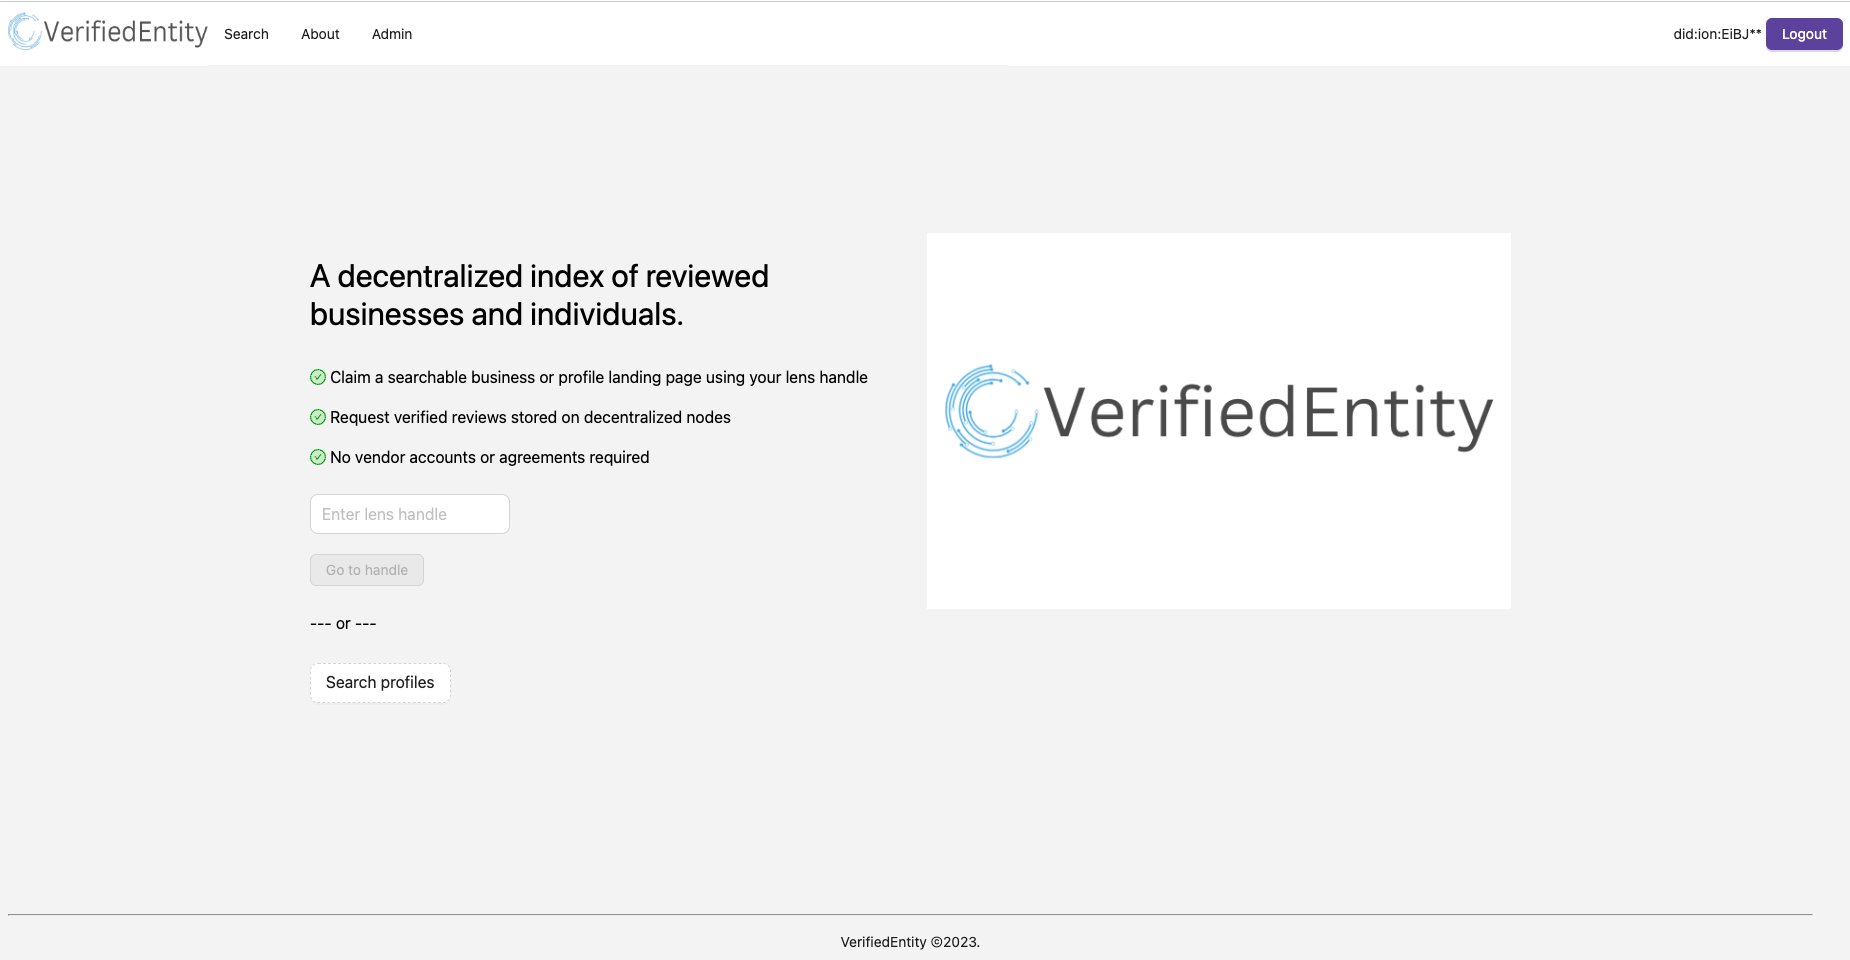
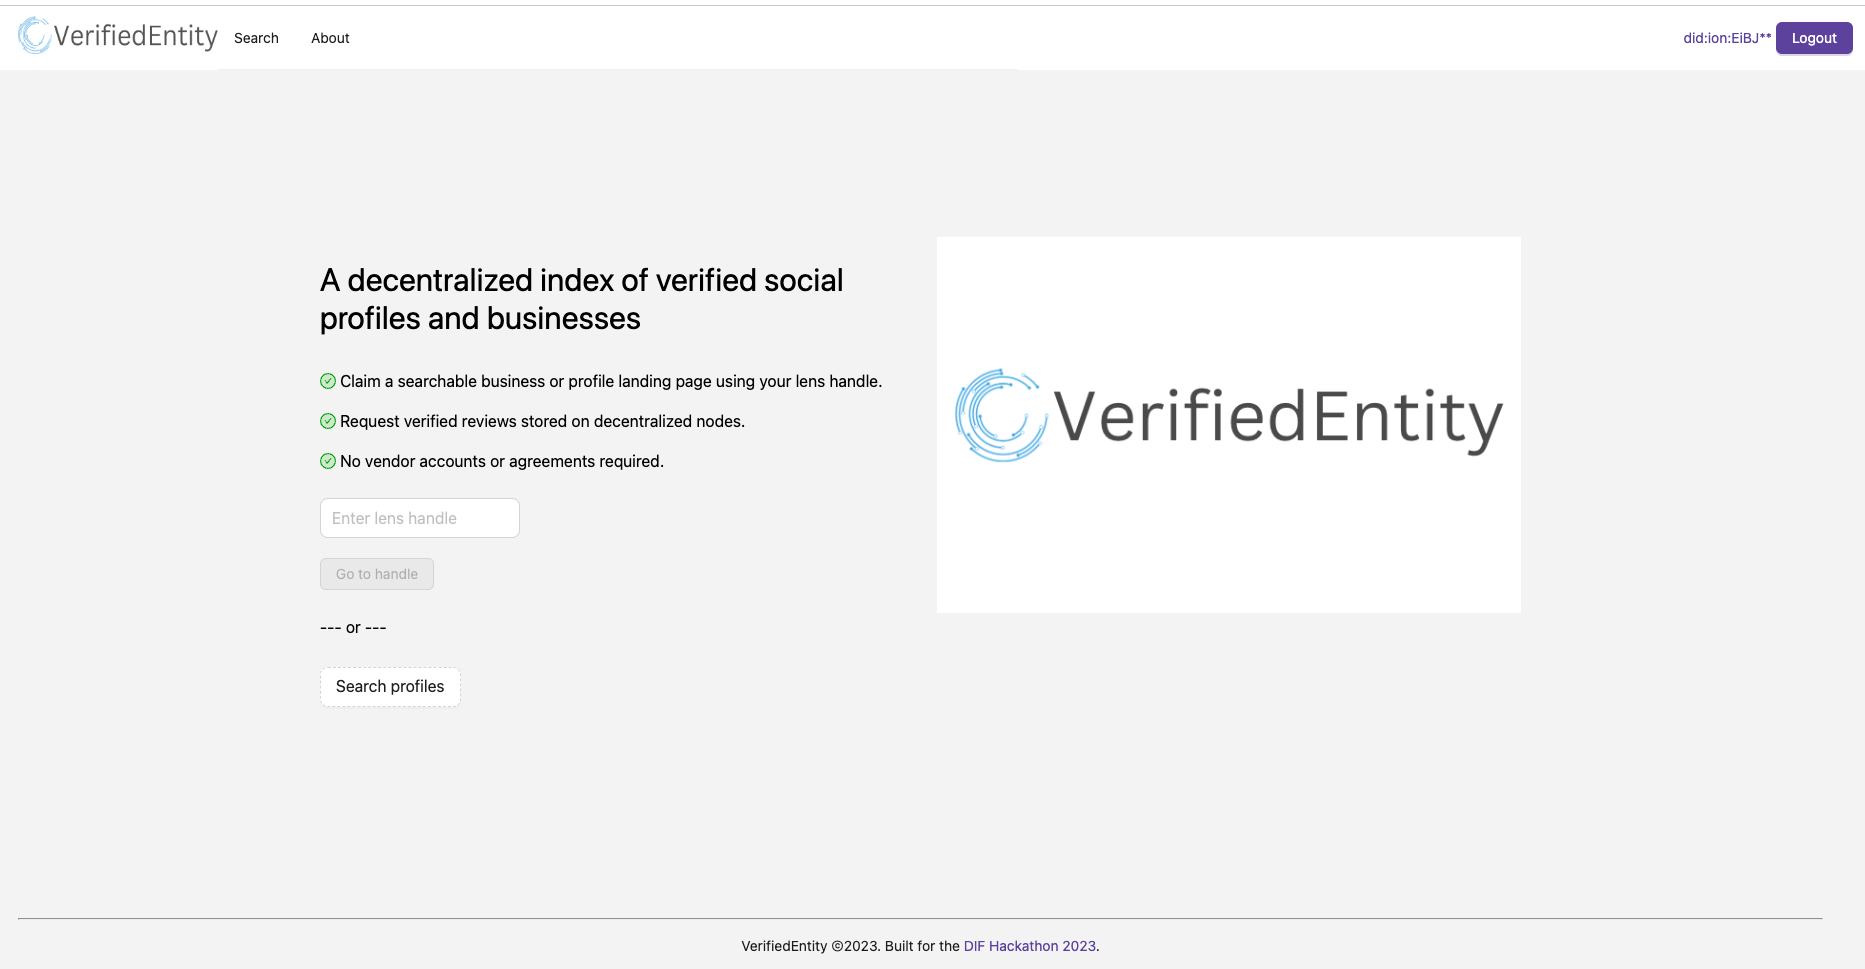
update images and readme

diff --git a/app/page.js b/app/page.js
@@ -1,6 +1,6 @@
-'use client'
+'use client';
 
-import React, { useState, } from 'react'
+import React, { useState } from 'react';
 import { Button, Spin, Row, Col, Input, Divider } from 'antd';
 import { APP_DESC, APP_NAME } from './constants';
 import { CheckCircleTwoTone } from '@ant-design/icons';
@@ -10,81 +10,91 @@ import { useRouter } from 'next/navigation';
 
 // TODO: change
 const CHECKLIST_ITEMS = [
-  "Claim a searchable business or profile landing page using your lens handle",
-  "Request verified reviews stored on decentralized nodes",
-  "No vendor accounts or agreements required",
+    'Claim a searchable business or profile landing page using your lens handle',
+    'Request verified reviews stored on decentralized nodes',
+    'No vendor accounts or agreements required',
 ];
 
 // const HERO_IMAGE = 'https://assets-v2.lottiefiles.com/a/b2e71c48-1173-11ee-af24-e38df89b1a8a/esieSHm0ao.gif'
 
-
 const Home = () => {
-  const [loading, setLoading] = useState(false)
-  const [handle, setHandle] = useState()
-  // next router
-  const router = useRouter()
-  const [error, setError] = useState()
+    const [loading, setLoading] = useState(false);
+    const [handle, setHandle] = useState();
+    // next router
+    const router = useRouter();
+    const [error, setError] = useState();
 
-  return <div className='home-section'>
-    <Row gutter={{
-      xs: 8,
-      sm: 16,
-      md: 24,
-      lg: 32,
-    }}>
-      <Col span={12}>
-        <div className='prompt-section'>
-          {APP_DESC}
+    return (
+        <div className="home-section">
+            <Row
+                gutter={{
+                    xs: 8,
+                    sm: 16,
+                    md: 24,
+                    lg: 32,
+                }}
+            >
+                <Col span={12}>
+                    <div className="prompt-section">{APP_DESC}</div>
+                    {CHECKLIST_ITEMS.map((item, i) => {
+                        return (
+                            <p key={i}>
+                                <CheckCircleTwoTone twoToneColor="#00aa00" />
+                                &nbsp;
+                                {item}.
+                            </p>
+                        );
+                    })}
+                    <div></div>
+                    <div>
+                        <br />
+                        <Input
+                            value={handle}
+                            size="large"
+                            className="standard-padding"
+                            onChange={(e) => setHandle(e.target.value)}
+                            placeholder="Enter lens handle"
+                            style={{ width: 200 }}
+                        />
+                        <br />
+
+                        <Button
+                            disabled={!handle}
+                            className="standard-btn"
+                            type="primary"
+                            onClick={() => router.push('/profile/' + handle)}
+                        >
+                            Go to handle
+                        </Button>
+                        <br />
+                        <br />
+                        <p>--- or ---</p>
+
+                        <Button
+                            className="standard-btn"
+                            size="large"
+                            type="dashed"
+                            onClick={() => router.push('/search')}
+                        >
+                            Search profiles
+                        </Button>
+                    </div>
+                </Col>
+                <Col span={12}>
+                    <br />
+                    <Image
+                        width={0}
+                        height={0}
+                        sizes="100vw"
+                        style={{ width: '100%', height: 'auto' }}
+                        className="hero-image"
+                        src={'/logo_3_2.png'}
+                        alt={APP_NAME}
+                    />
+                </Col>
+            </Row>
         </div>
-        {CHECKLIST_ITEMS.map((item, i) => {
-          return (
-            <p key={i}>
-              <CheckCircleTwoTone twoToneColor="#00aa00" />
-              &nbsp;
-              {item}
-            </p>
-          );
-        })}
-        <div>
-        </div>
-        <div>
-          <br />
-          <Input
-            value={handle}
-            size='large'
-            className='standard-padding'
-            onChange={(e) => setHandle(e.target.value)}
-            placeholder="Enter lens handle"
-            style={{ width: 200 }}
-          /><br />
+    );
+};
 
-          <Button disabled={!handle} className='standard-btn' type="primary" onClick={() => router.push('/profile/' + handle)}>
-            Go to handle
-          </Button>
-          <br />
-          <br />
-          <p>--- or ---</p>
-
-          <Button className='standard-btn' size="large" type="dashed" onClick={() => router.push('/search')}>
-            Search profiles
-          </Button>
-        </div>
-      </Col>
-      <Col span={12}>
-        <br />
-        <Image
-          width={0}
-          height={0}
-          sizes="100vw"
-          style={{ width: '100%', height: 'auto' }}
-          className='hero-image' src={'/logo_3_2.png'}
-          alt={APP_NAME}
-        />
-      </Col>
-    </Row>
-
-  </div>
-
-}
-
-export default Home
+export default Home;

diff --git a/app/search/page.js b/app/search/page.js
@@ -21,7 +21,7 @@ export default function Home() {
     const [data, setData] = useState([]);
     const [page, setPage] = useState(1);
     const [pageSize, setPageSize] = useState(10);
-    const filteredItems = data; // isEmpty(searchValue) ? data : filteredData;
+    const filteredItems = data?.slice(pageSize * (page - 1), pageSize * page); // isEmpty(searchValue) ? data : filteredData;
 
     async function search() {
         if (isEmpty(searchValue)) {
@@ -85,7 +85,7 @@ export default function Home() {
             <br />
             {!loading && !noResults && (
                 <div className="listing-section">
-                    <Card title={'Select result'}>
+                    <Card title={'Select profile'}>
                         {filteredItems.map((item, i) => {
                             const imageUrl = item?.picture?.original?.url;
                             return (
@@ -126,15 +126,13 @@ export default function Home() {
                 )}
                 {filteredItems.length > 0 && (
                     <div>
-                        <p className="bold">
-                            Found listings: {filteredItems.length}
-                        </p>
+                        <p className="bold">Found listings: {data.length}</p>
                     </div>
                 )}
                 <br />
                 <Pagination
                     current={page}
-                    total={filteredItems.length}
+                    total={data.length}
                     pageSize={pageSize}
                     onChange={(page) => setPage(page)}
                 />

diff --git a/app/lib/DidButton.js b/app/lib/DidButton.js
@@ -1,7 +1,7 @@
 'use client';
 
 import { useEffect, useState } from 'react';
-import { Button, Modal } from 'antd';
+import { Button, Modal, Tooltip } from 'antd';
 import { abbreviate } from '../util';
 import { useDidContext } from '../context/DidProvider';
 
@@ -24,12 +24,16 @@ const DidButton = ({ children, useExisting }) => {
         const copyDid = (e) => {
             e.preventDefault();
             navigator.clipboard.writeText(did);
-            alert('Copied DID to clipboard');
+            // alternative if clipboard not defined
         };
 
         return (
             <span>
-                <a onClick={copyDid}>{abbreviate(did, 12)}</a>
+                <a onClick={copyDid}>
+                    <Tooltip title={'Copy to clipboard'}>
+                        {abbreviate(did, 12)}
+                    </Tooltip>
+                </a>
                 &nbsp;
                 <Button
                     type="primary"

diff --git a/app/constants/index.js b/app/constants/index.js
@@ -1,6 +1,7 @@
-export const APP_NAME = 'VerifiedEntity'
-export const APP_DESC = 'A decentralized index of reviewed businesses and individuals.'
+export const APP_NAME = 'VerifiedEntity';
+export const APP_DESC =
+    'A decentralized index of verified social profiles and businesses';
 
-export const PRIMARY_COLOR = '#674ea7'
+export const PRIMARY_COLOR = '#674ea7';
 
-export const GITHUB_URL = 'https://github.com/cbonoz/did23'
+export const GITHUB_URL = 'https://github.com/cbonoz/did23';

diff --git a/app/lib/Reviews.js b/app/lib/Reviews.js
@@ -111,6 +111,7 @@ const Reviews = ({ handle, isVerified }) => {
 
             {!isVerified && (
                 <p className="error-text">
+                    <br />
                     Reviews are only available for verified handles.
                 </p>
             )}

diff --git a/README.md b/README.md
@@ -36,19 +36,22 @@ The rough flow is above. Taken from: https://docs.trinsic.id/guide/issuance/#int
 
 ## Running the project (from scratch)
 
-1. Specify an admin DID
 
-2. Copy `.env.sample` -> `.env`
+1. Copy `.env.sample` -> `.env`
 
-3. Define the fields to your desired management and paymaster contract address from (1) in `.env`.
+2. Specify an admin DID and trinsic API credential in .env
 
-4. `yarn; yarn dev`. The app should now be running on port 3000.
+3. `yarn; yarn dev`. The app should now be running on port 3000.
 
-5. Go to `localhost:3000/admin`. Connect your wallet using the same address from step 3.
+4. Go to `localhost:3000/admin`. Connect your wallet using the same address from step 2.
 
-6. Update the `issuer` credential found in `issuer.js`
+5. Provision keys for a Lens handle using this page. Enter email
 
-7. Provision keys for handles using this page.
+6. Go to `/profile/{HANDLE YOU ENTERED}` to view to the autogenerated profile page.
+
+7. Enter the credential received via email on the profile page.
+
+8. The page should now be claimed and available for others to review and access.
 
 Any repeated starts can be done with `yarn dev` once all variables set.
 
@@ -106,6 +109,7 @@ Hackathon Time Constraints: As a prototype developed for a hackathon, time const
 * Integration with more identity and blockchain sources: Extend compatibility to multiple blockchains to provide users with options and flexibility when conducting verified transactions.
 * Community Governance: Establish a governance model that empowers platform users to influence decision-making and ensure long-term sustainability between parties on the app.
 * Incentives for use and reporting: Make it easy to generate leads on the application and track the performance of using a VerifiedEntity page vs. traditional review sites like Yelp.
+* Enable business to business verified communication and inquiry on the app.
 
 ### Useful links
 
